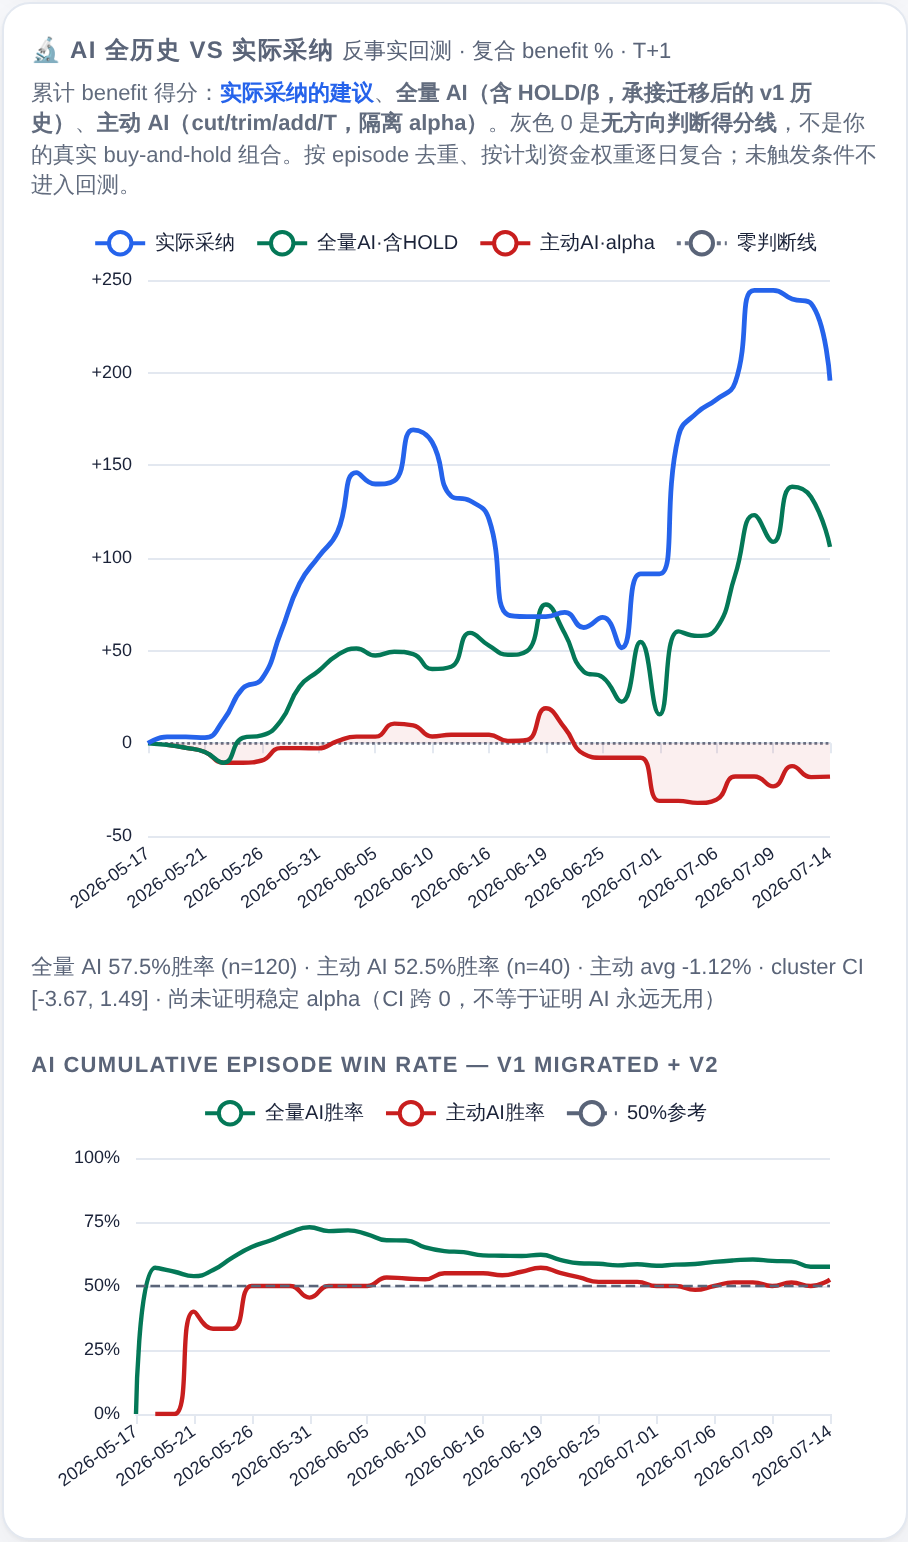
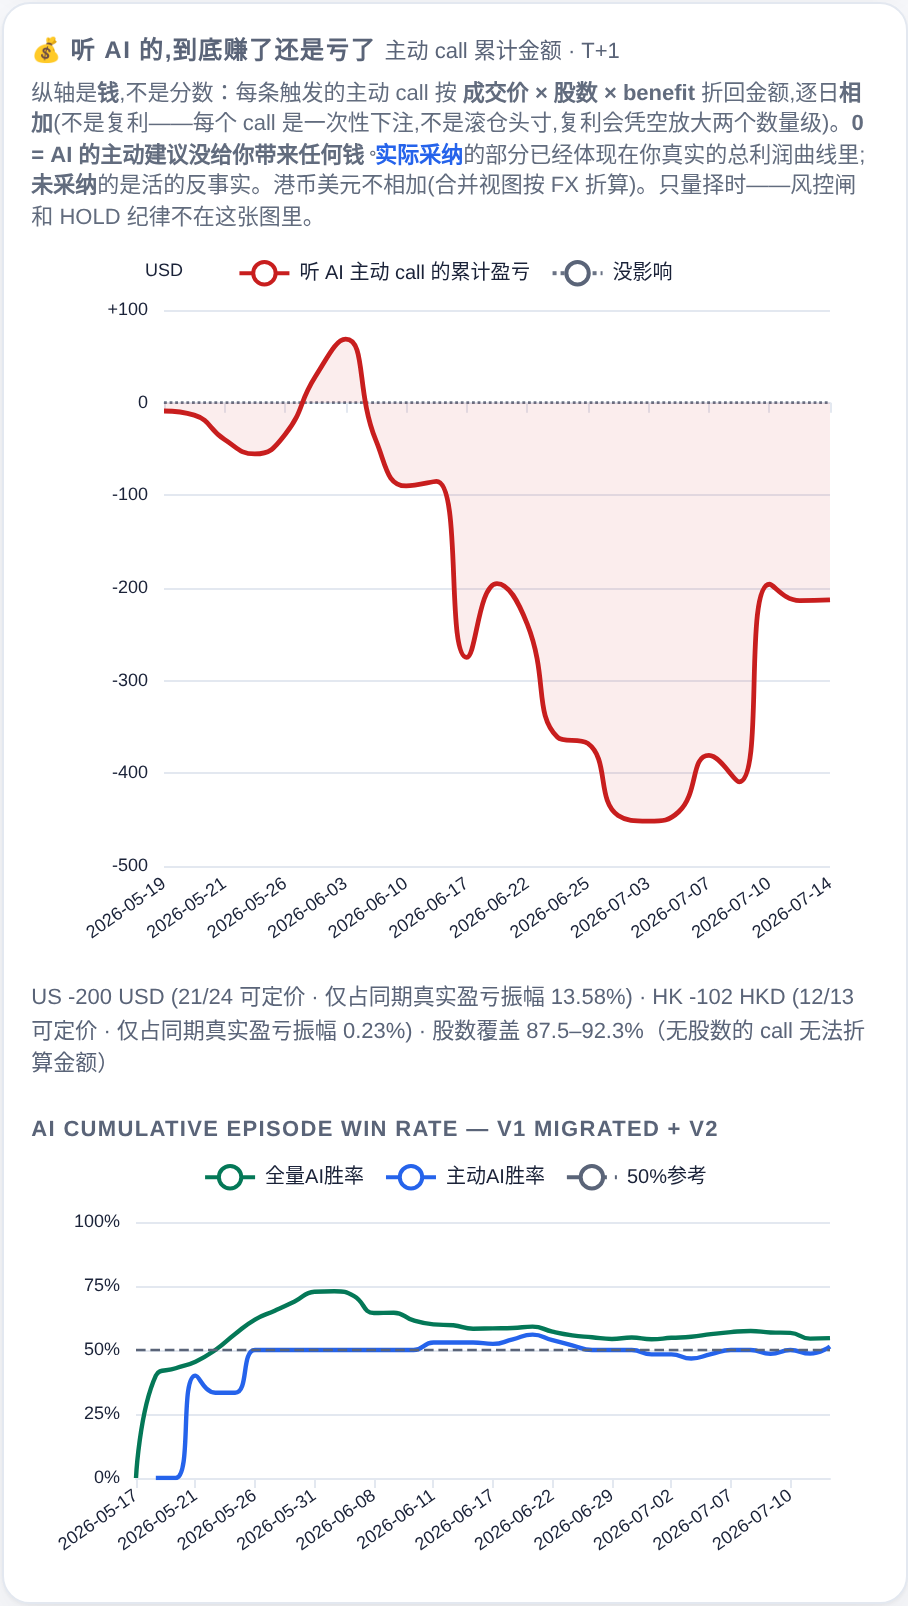
fix: colour the win-rate lines by identity, not by their own verdict
The active line borrowed its colour from its own end value (>=50 -> green),
which collides with the all-calls line whenever active sits above 50 - it does
today at 51.4%, making the legend unreadable. Colour now marks which line you
are reading; the 50% reference is what reads good from bad.

Also re-shoot docs/shadow-backtest.png: README still pointed at the retired
compounded-benefit curve while its alt text already described the money chart.

diff --git a/index.html b/index.html
@@ -4506,10 +4506,10 @@ layout: null
         let last = null;
         return wrDates.map(d => { if (map[d] != null) last = map[d]; return last; });
       };
-      // Colour this line by its own claim — coin-flip or better — not by the money
-      // chart's sign; being right often and being right profitably are different.
-      const activeWrEnd = wrSeries(activeWrCurve).filter(v => v != null).slice(-1)[0];
-      const activeWrColor = activeWrEnd == null || activeWrEnd >= 50 ? green : red;
+      // Colour encodes which line you're reading, not whether it's any good: 全量 carries
+      // HOLD/β, 主动 isolates alpha. Tying it to the line's own end value collides with
+      // 全量 whenever active sits above 50 — the 50% line is what reads good from bad.
+      const activeWrColor = getCSS("--accent") || "#5b8def";
       charts.aiWinRate.setOption({
         backgroundColor: "transparent",
         grid: { left: isMobile ? 42 : 52, right: isMobile ? 16 : 24, top: 34, bottom: wrDates.length > 6 ? 48 : 26 },
